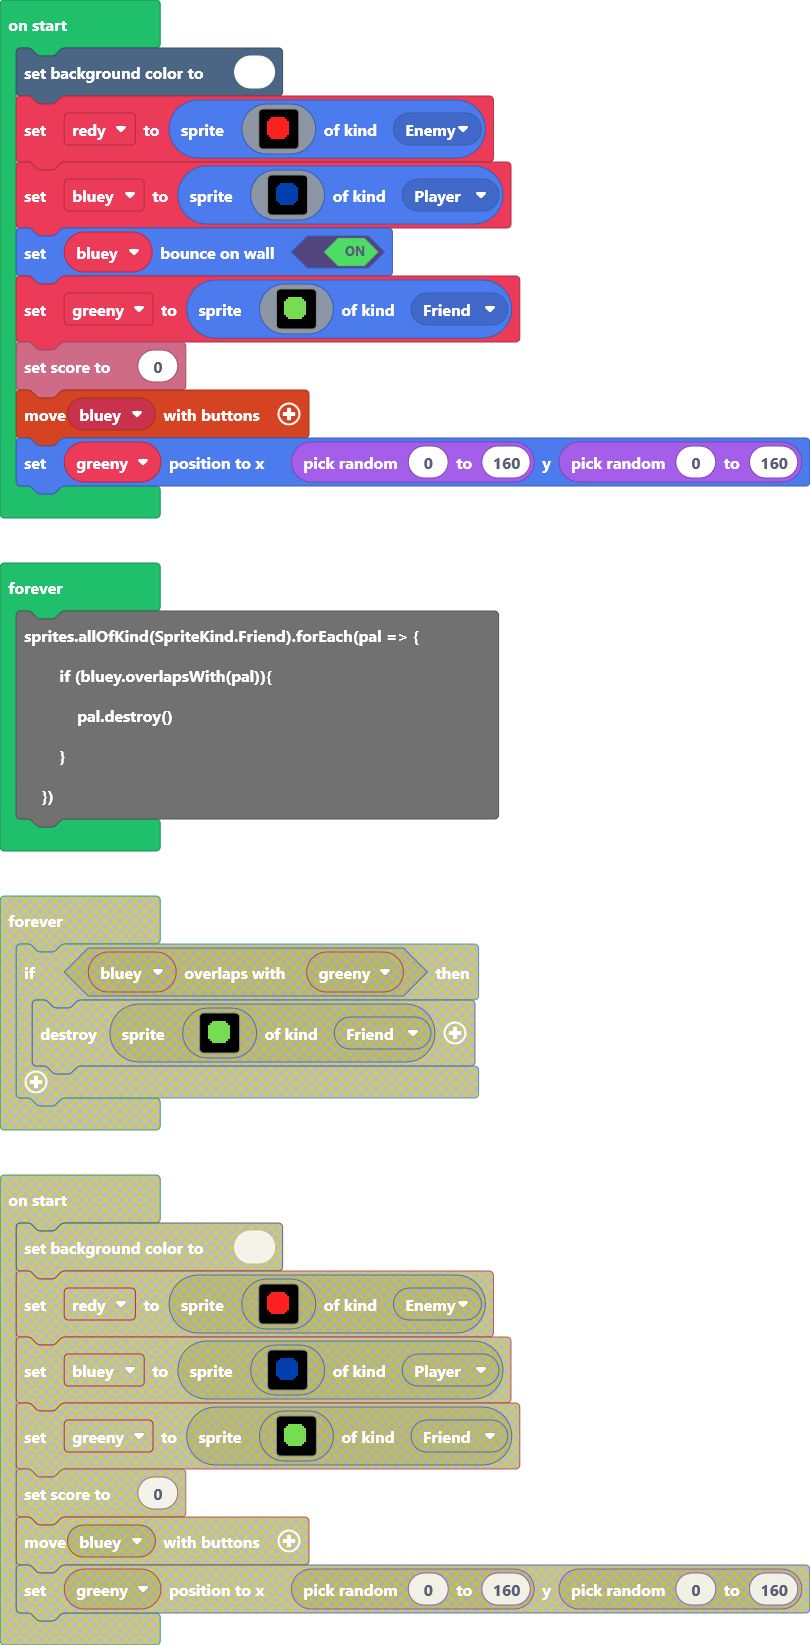
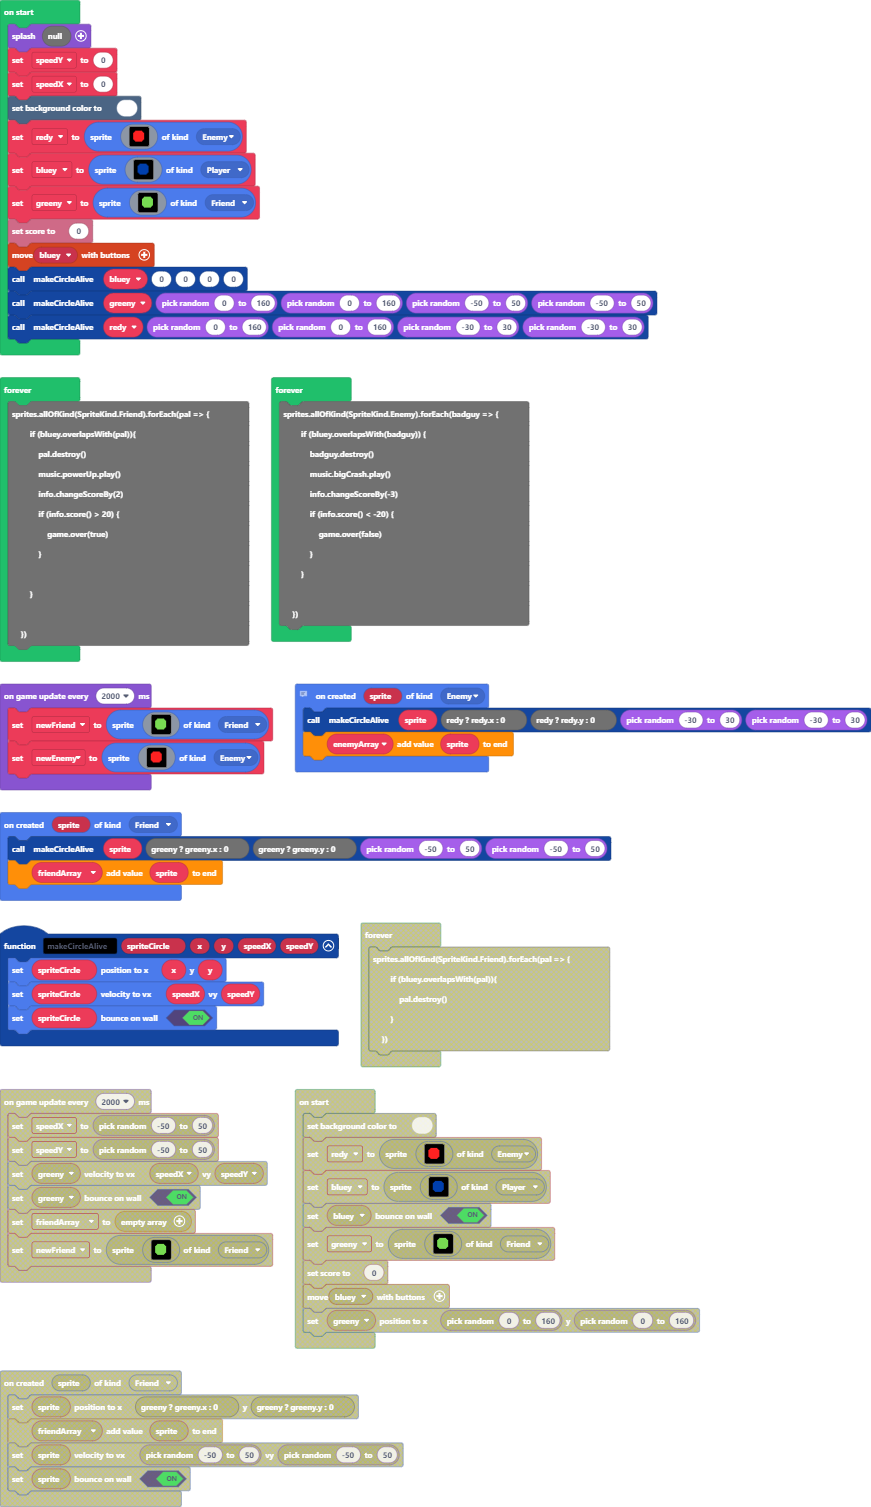
can win and lose and instructions added

diff --git a/main.ts b/main.ts
@@ -1,37 +1,74 @@
 namespace SpriteKind {
     export const Friend = SpriteKind.create()
 }
-sprites.onCreated(SpriteKind.Friend, function (sprite) {
-    sprite.setPosition(greeny ? greeny.x : 0, greeny ? greeny.y : 0)
-    friendArray.push(sprite)
-    sprite.setVelocity(randint(-50, 50), randint(-50, 50))
-    sprite.setBounceOnWall(true)
+// make variables
+sprites.onCreated(SpriteKind.Enemy, function (sprite) {
+    let enemyArray: Sprite[] = []
+    makeCircleAlive(sprite, redy ? redy.x : 0, redy ? redy.y : 0, randint(-30, 30), randint(-30, 30))
+    enemyArray.push(sprite)
 })
+function makeCircleAlive (spriteCircle: Sprite, x: number, y: number, speedX: number, speedY: number) {
+    spriteCircle.setPosition(x, y)
+    spriteCircle.setVelocity(speedX, speedY)
+    spriteCircle.setBounceOnWall(true)
+}
+sprites.onCreated(SpriteKind.Friend, function (sprite) {
+    let friendArray: Sprite[] = []
+    makeCircleAlive(sprite, greeny ? greeny.x : 0, greeny ? greeny.y : 0, randint(-50, 50), randint(-50, 50))
+    friendArray.push(sprite)
+})
+let newEnemy: Sprite = null
 let newFriend: Sprite = null
+game.splash("EllieCircleWars")
+game.showLongText(`*You* are the Blue Circle.
+Move using the direction keys. 
+Be quick!
+
+Touch the Green Circles for 2pts
+Touching Reds get you -3pts
+
+Try to get 20pts to win
+
+`, DialogLayout.Bottom)
 let speedY = 0
 let speedX = 0
-let friendArray: Sprite[] = []
 scene.setBackgroundColor(1)
 let redy = sprites.create(assets.image`enemy`, SpriteKind.Enemy)
 let bluey = sprites.create(assets.image`player`, SpriteKind.Player)
-bluey.setBounceOnWall(true)
 let greeny = sprites.create(assets.image`friend`, SpriteKind.Friend)
 info.setScore(0)
 controller.moveSprite(bluey)
-greeny.setPosition(randint(0, 160), randint(0, 160))
+makeCircleAlive(bluey, 0, 0, 0, 0)
+makeCircleAlive(greeny, randint(0, 160), randint(0, 160), randint(-50, 50), randint(-50, 50))
+makeCircleAlive(redy, randint(0, 160), randint(0, 160), randint(-30, 30), randint(-30, 30))
 game.onUpdateInterval(2000, function () {
-    speedX = randint(-50, 50)
-    speedY = randint(-50, 50)
-    greeny.setVelocity(speedX, speedY)
-    greeny.setBounceOnWall(true)
-    friendArray = []
     newFriend = sprites.create(assets.image`friend`, SpriteKind.Friend)
+    newEnemy = sprites.create(assets.image`enemy`, SpriteKind.Enemy)
 })
 forever(function () {
     sprites.allOfKind(SpriteKind.Friend).forEach(pal => {
         if (bluey.overlapsWith(pal)){
             pal.destroy()
-            info.changeScoreBy(1)
+            music.powerUp.play()
+            info.changeScoreBy(2)
+            if (info.score() > 20) {
+                game.over(true)
+            }
+            
         }
+   
+    })
+})
+forever(function () {
+    sprites.allOfKind(SpriteKind.Enemy).forEach(badguy => {
+        if (bluey.overlapsWith(badguy)) {
+            badguy.destroy()
+            music.bigCrash.play()
+            info.changeScoreBy(-3)
+            if (info.score() < -20) {
+                game.over(false)
+            }
+        }
+
     })
 })
